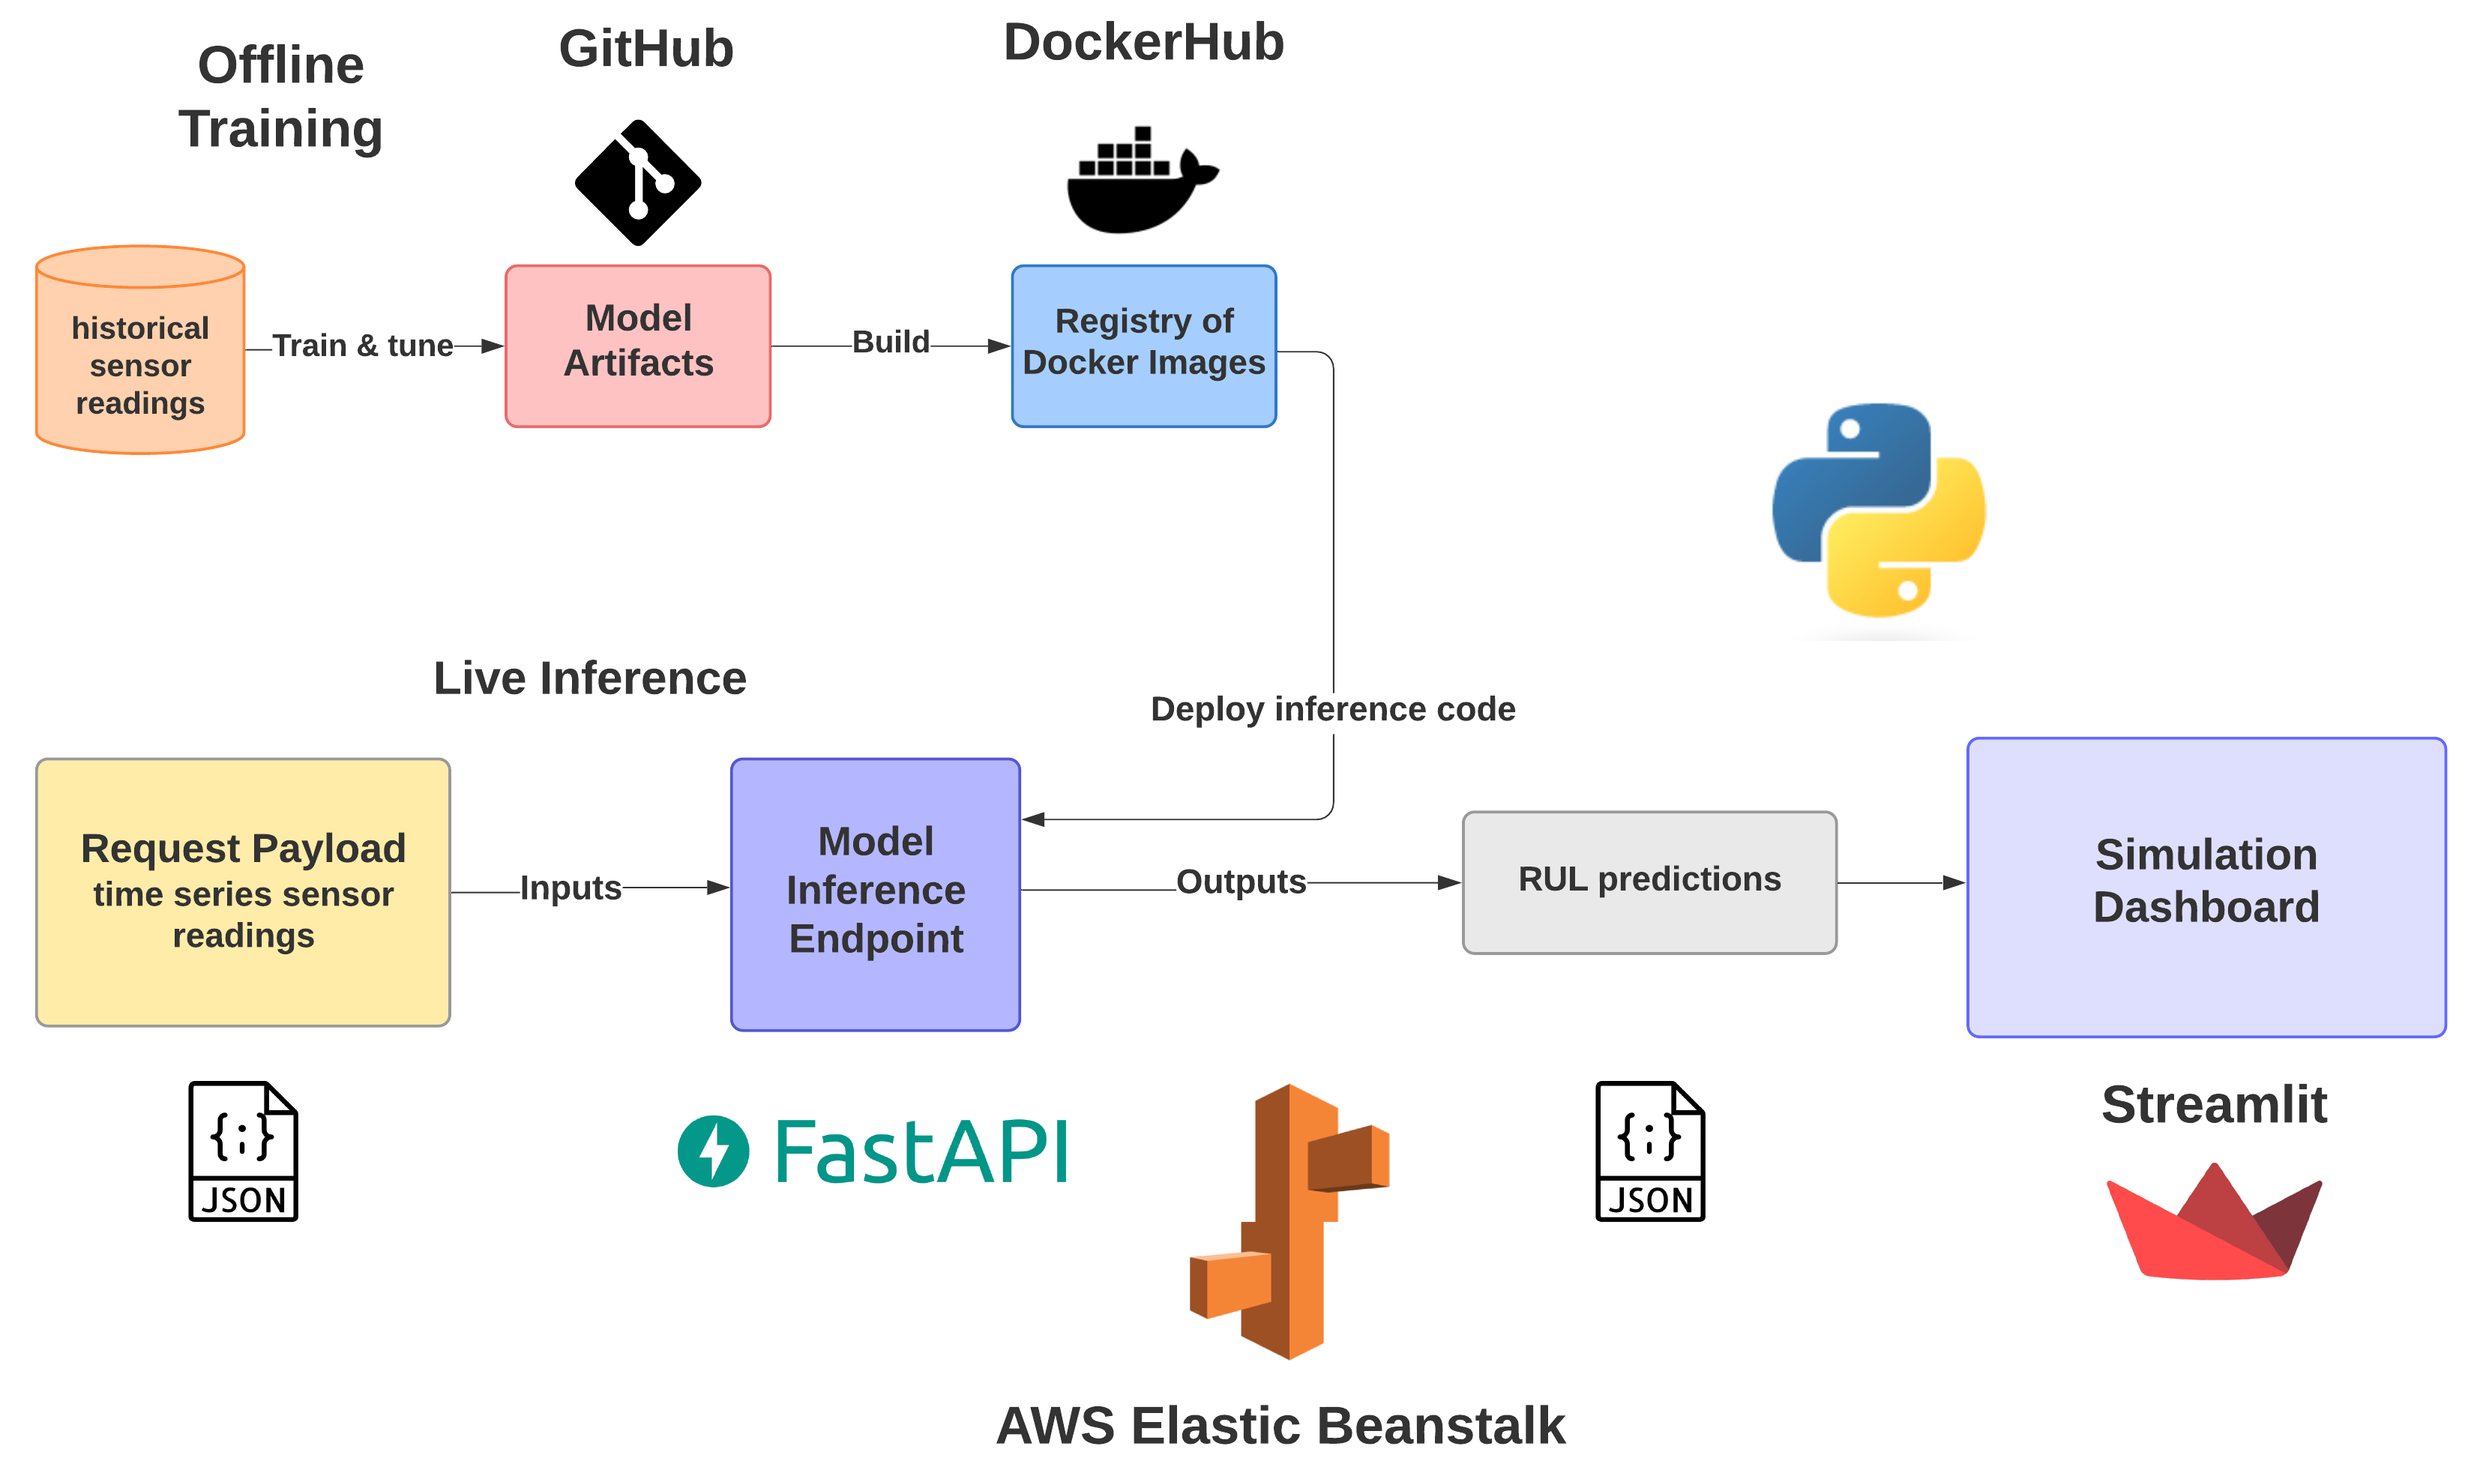
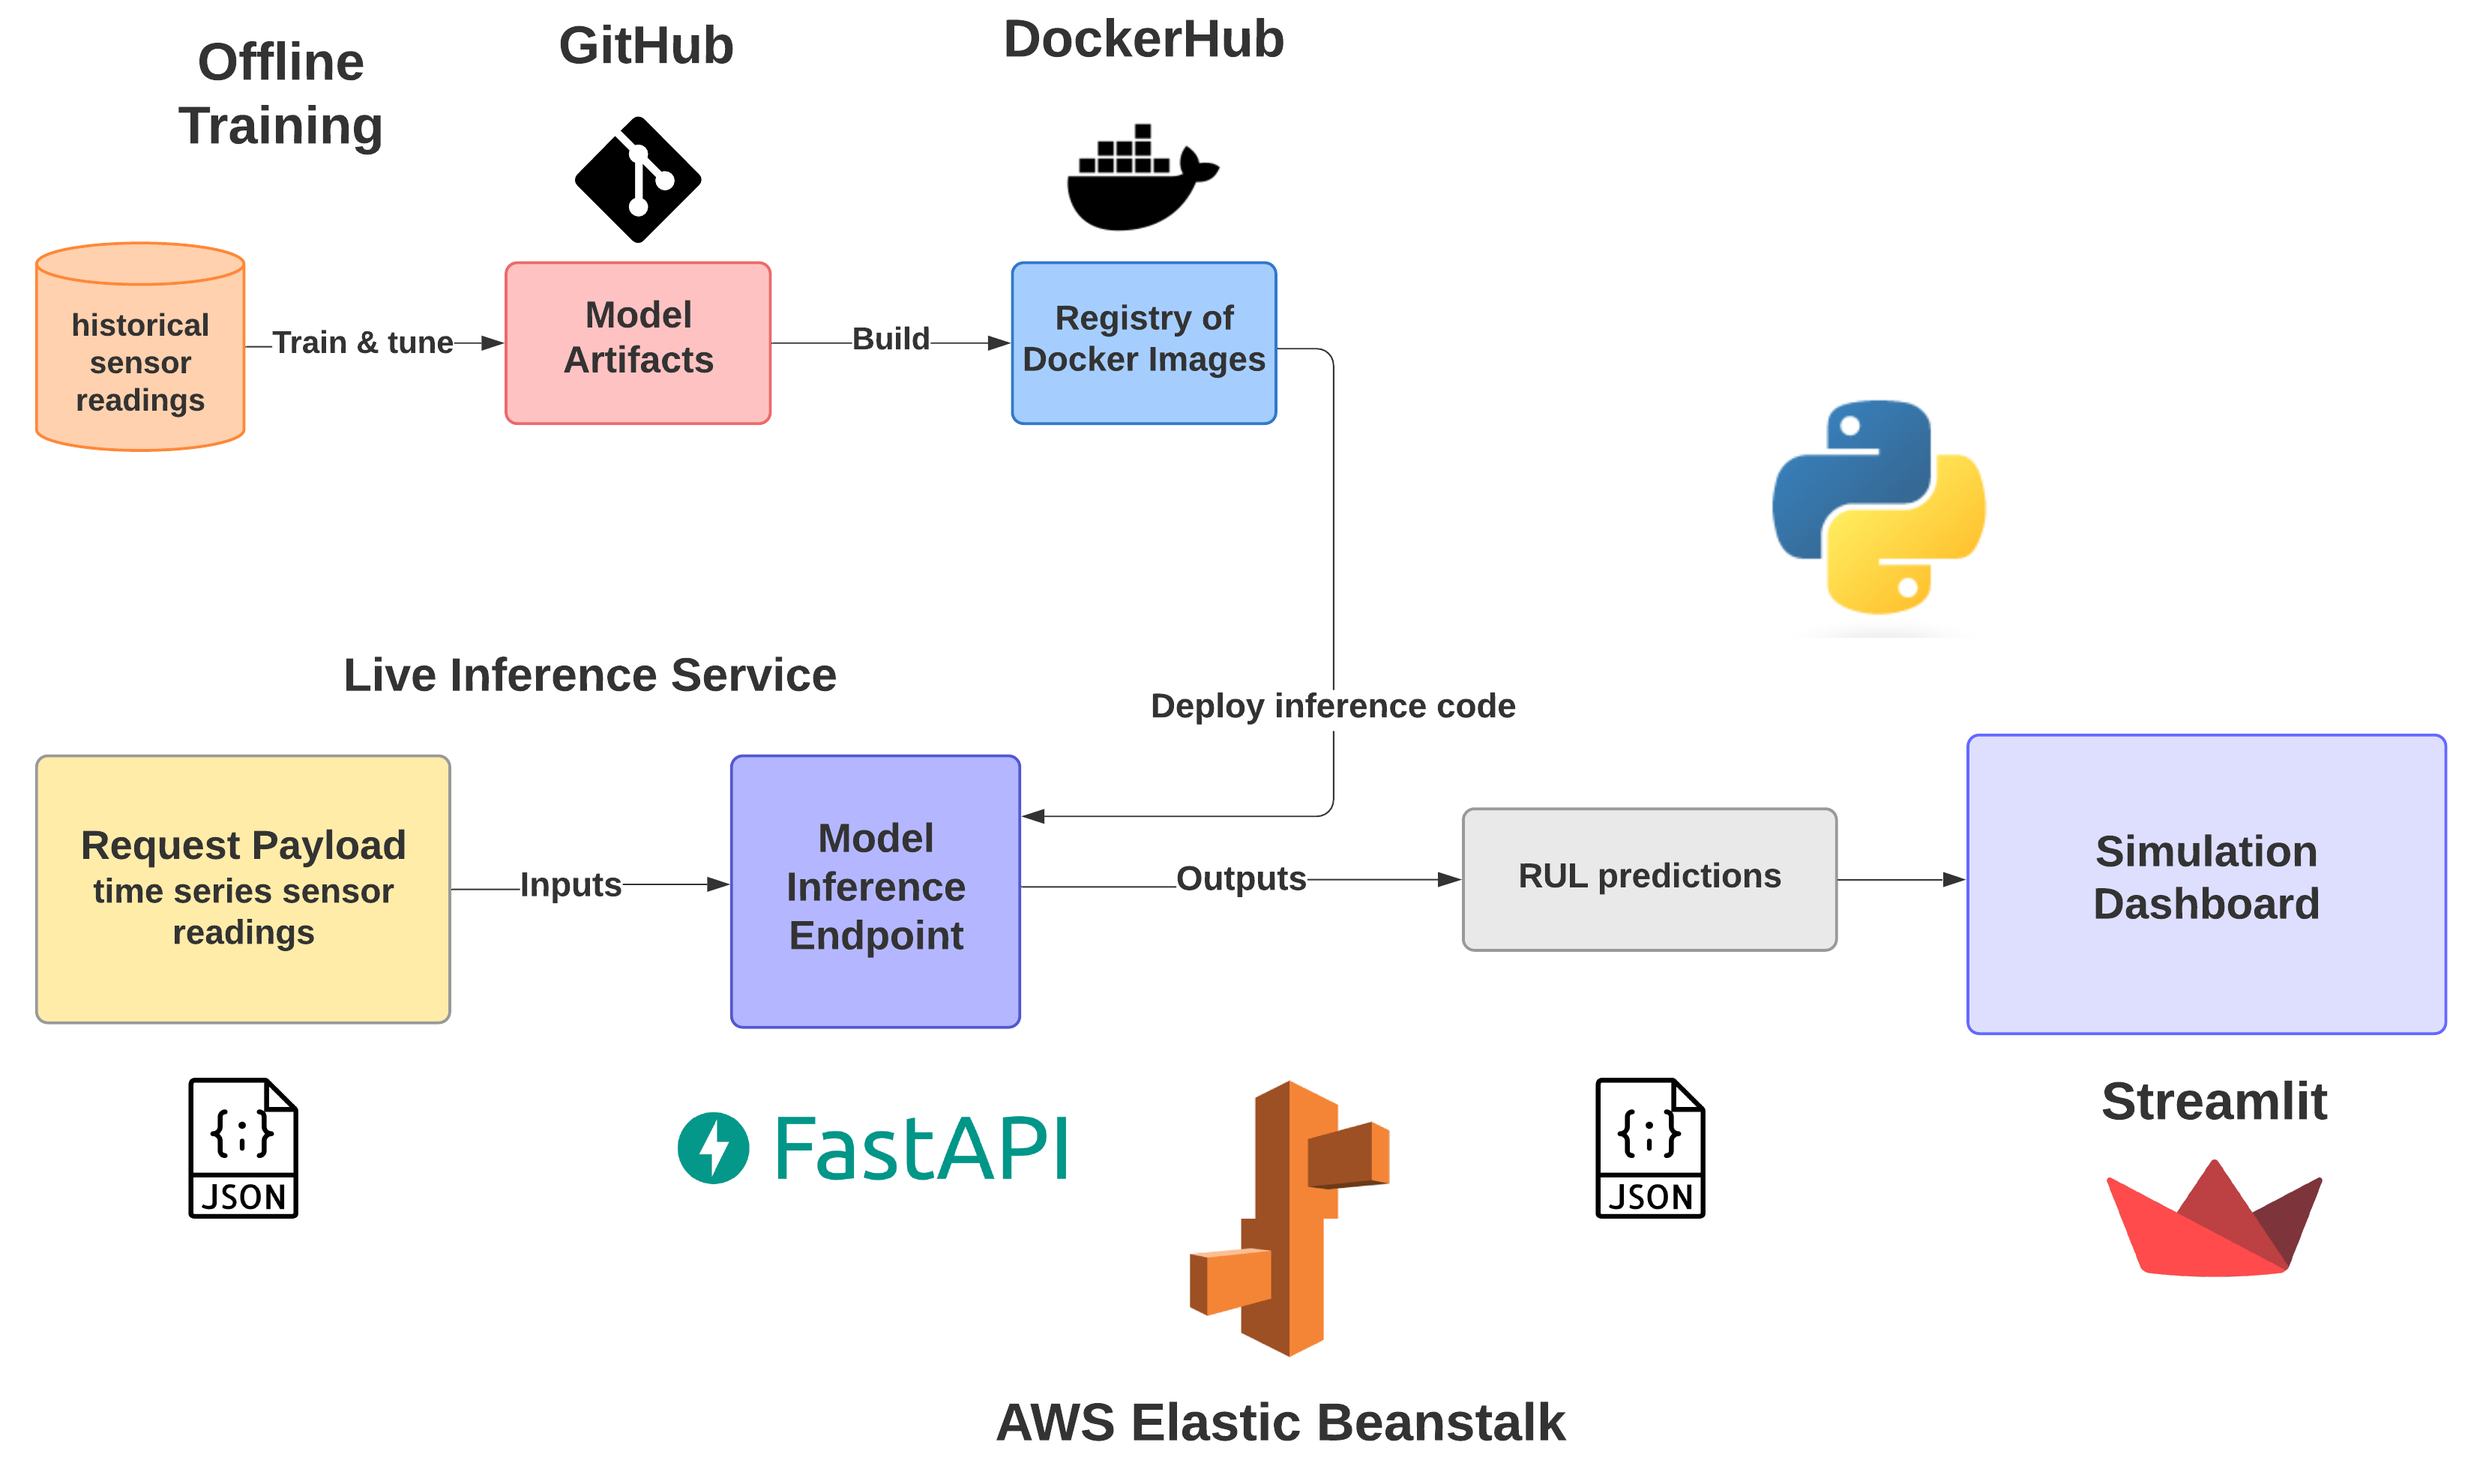
intro section and final changes to system design/solution sections

diff --git a/reports/final_report.md b/reports/final_report.md
@@ -2,6 +2,9 @@
 
 _Report describing the final model to be delivered - typically comprised of one or more of the models built during the life of the project_
 
+## Introduction
+Industrial equipment such as Turbofan Engines in aircrafts have very tight and costly maintenance schedules to ensure availability and reliability. It is estimated that 15-70% of total production costs originate from maintenance activities<sup>1</sup>. Companies are beginning to utilize large streams of sensor data for Prognostics and Predictive Maintenance. Prognostics is the monitoring of the health of a product and predicting its Remaining Useful Life (RUL). Health is defined as the deviation from ideal equipment vitals and conditions usually measured by sensors. Predictive Maintenance are the statistical and computational techniques utilized for detecting defects and failure. Savings from optimizing the use of equipment can lead to $30B of savings in the aviation sector<sup>2</sup>. The goal of this project was to utilize NASA's CMAPPS data set for building a service that can predict RUL for turbofan engines and also simulating how a model inference service could be utilized on-demand by other software systems in a production setting. Predicting RUL accurately has major industrial implications such as minimizing the number of unexpected breakdowns, maximizing uptime of aircrafts, reducing operational costs by performing only necessary maintenance, and maximizing production hours.
+
 ## Analytic Approach
 
 The expected value to be gained from this project lies in effective predictive maintenance of turbofan engines. To explain the analytical approach taken, we  first describe the experimental scenario, as outlined in the NASA's turbofan engine degradation simulation dataset (CMAPSS). The project leverages four (4) multivariate time series (see the Data Schema section for details). FD001 has a single fault mode (HPC Degradation) with 100 vector valued training examples and 100 vector valued test examples. FD002 has single fault mode (HPC Degradation) with 260 training examples and 259 training examples.  FD003 is a more complicated dataset with the possibility of two (2) fault modes (HPC Degradation and or Fan Degradation). For FD003, we had 100 vector valued training examples and 100 vector valued test set examples.  Similar to FD003, FD004 also had two fault modes (HPC Degradation and Fan Degradation) with 248 training examples and 249 test examples. The table below provides a summary of the project training and testing data sets. 
@@ -36,8 +39,34 @@ Based on a comparison of the RMSE score, the LSTM model is the best performing m
 ### System Architecture
 ![Solution Diagram](figures/turbofan_prognostics_system_design_final.png "System Design Diagram")
 
-* Simple solution architecture (Data sources, solution components, data flow)
-* What is output?
+Our system architecture for this project included **offline model training**, **a backend model inference service** and a **frontend simulation** of the model inference service.
+
+### Offline Training
+The **offline training** portion of our project was in a separate repository in our [Git Organziation](https://github.com/TurbofanPrognostics) called [`turbofan_prognostics`](https://github.com/TurbofanPrognostics/turbofan_prognostics). This repository holds a dockerized Jupyter server that can be run on any machine with all the dependencies installed for the models that were iterated on and saved in the repository. If a new library was necessary, it is as simple as adding that library in the `requirements.txt` file and just rebuilding the docker image. Instructions for building and running the dockerized Jupyter server are in the repository's `README.md`. Models and modeling pipelines that were ready to be deployed were save in binary format (pickle) in the `/models` directory. Having the Jupyter server dockerized made it easier to track which version of each library is utilized during training and deployment.
+
+### Model Inference Service
+The modeling service is built utilizing the FastAPI Python framework and can be found in the repository (`turbo_fast_app`)[https://github.com/TurbofanPrognostics/turbo_fast_app]. This service is also dockerized and instructions for building and running this modeling service in a docker container can be found in the README.md file in the repository. This modeling service functions as an on-demand prediction engine that can be utilized by other applications in a microservice oriented architecture. Any application that needs RUL predictions in near real-time can send a post API request to the modeling service with the time series data in the payload and the service will process the request and send back its RUL predictions in the response. FastAPI has a couple of advantages compared to other backend frameworks in Python including automatic schema validation of API requests utilizing the Pydantic library, automatic Swagger documentation where the endpoints are well defined and can be tested and its performance compares with the speed of services written in Go making it great for machine learning projects. FastAPI also has great documentation to get started making it great for newcomers to backend web development.
+
+**Swagger Page**
+![Swagger Page](figures/fastapi_swagger_page.png "Swagger Page")
+
+The model inference service has **6 endpoints** as shown above. 
+1. A `GET` request on the `/` endpoint prints out 'hello world' as quick indicator that the service is up and running
+2. A `POST` request on the `/test` endpoint is just for testing purposes only. It automatically loads a test JSON request directly from the repository and makes predictions on it
+3. A `GET` request on the `/models` endpoint will show a list of the deployed models that can be utilized for live inference
+4. A `POST` request on the `/batch_predict` endpoint will return RUL predictions on an entire batch of engines (multiple engines and their time series data)
+5. A `POST` request on `/stream_predict` will take in a single engine's time step data and return an RUL prediction for that specific time step
+6. A `POST` request on the `/select_model` with a model specified in the list of models returned from the `GET` on `/models` endpoint will load that specified model binary in the backend so that model will be utilized for inference on subsequent requests to `/stream_predict` and `/batch_predict`.
+
+### Streamlit Simulation
+![Streamlit Simulation](figures/streamlit.png "Streamlit")
+This project uses Streamlit to simulate the use of the model inference service. You can select a model for inference in the drop down on the right. Once that is selected, it utilizes the '/select_model' endpoint to actually load that model binary in the model inference service backend. When you hit `Start Simulation`, Streamlit loads training data and begins making requests to the model inference service and plots the predicted RUL at each time step. For the `Baseline Regression Model`, it iterates through each time step and makes a `POST` request to the `/stream_predict` endpoint and streamlit receives the RUL predictions and displays it on a line chart. As the simulation progresses, the predicted RUL and the empirical RUL are plotted on the line chart. The simulation shows the actual empirical RUL that the machine learning model needs to learn and it subsequently also displays the function that the model actually did learn from the training data by plotting the service's predict RULs. This simulation shows how the model inference service could be utilized for near real-time. The simulation actually adds a 0.05 second lag so that the points don't plot too fast for the display or else it seems like a static plot. 
+
+If you pick the `Time Series Model`, it actually utilizes the `/batch_predict` endpoint instead for its simulation. Since the `Time Series Model` has lagged variables, we would have needed to adjust the JSON schema if the similation were to utilize the `/stream_predict` endpoint. We decided not to utilize this approach for this `Time Series Model` and instead utilize the `/batch_predict` endpoint so that we are not coupling JSON schemas to the actual model that is being utilized. In an actual production setting, it may actually make sense to change the JSON schema to accept the parameters necessary for that model.
+
+
+### Deployment
+This project utilizes AWS Elastic Beanstalk for deployment for both the model inference service (FastAPI) and the Streamlit simulation application. Both docker images for the model inference service and Streamlit simulation application were on DockerHub for easier deployment with Elastic Beanstalk. We chose Elastic Beanstalk for its ease of use and scalability on AWS which is by far the most popular cloud. For instructions on how to deploy our applications on Elastic Beanstalk, refer to the README.md for both the [`turbo_fast_app`](https://github.com/TurbofanPrognostics/turbo_fast_app) repository and the [`turbofan-dashboard`](https://github.com/TurbofanPrognostics/turbofan-dashboard) repository.
 
 ## Data and Features
 
@@ -123,3 +152,10 @@ In terms of deciding on model performance, we rely on the root mean square error
 |                         |FD002       |28.22             |0.72    | 18                           |
 |                         |FD003       |18.34             |0.80    | 68                           |
 |                         |FD004       |27.37             |0.75    | 49                           |
+
+## Future Work
+A new CMAPPS data set was released with much larger amounts of data that could be utilized to further test the performance of our models as well as iterate and build new models. Our system did not include any production grade CI/CD pipeline. Deployments to AWS Elastic Beanstalk was done manually through commandline for each service so that is one area of future work that could be iterated on further. We also ran out of cycles to actually deploy the trained LSTM model to our model inference service which is another area we plan on developing.
+
+## References
+1. https://arxiv.org/abs/2002.08224
+2. https://arxiv.org/pdf/1709.06669.pdf
